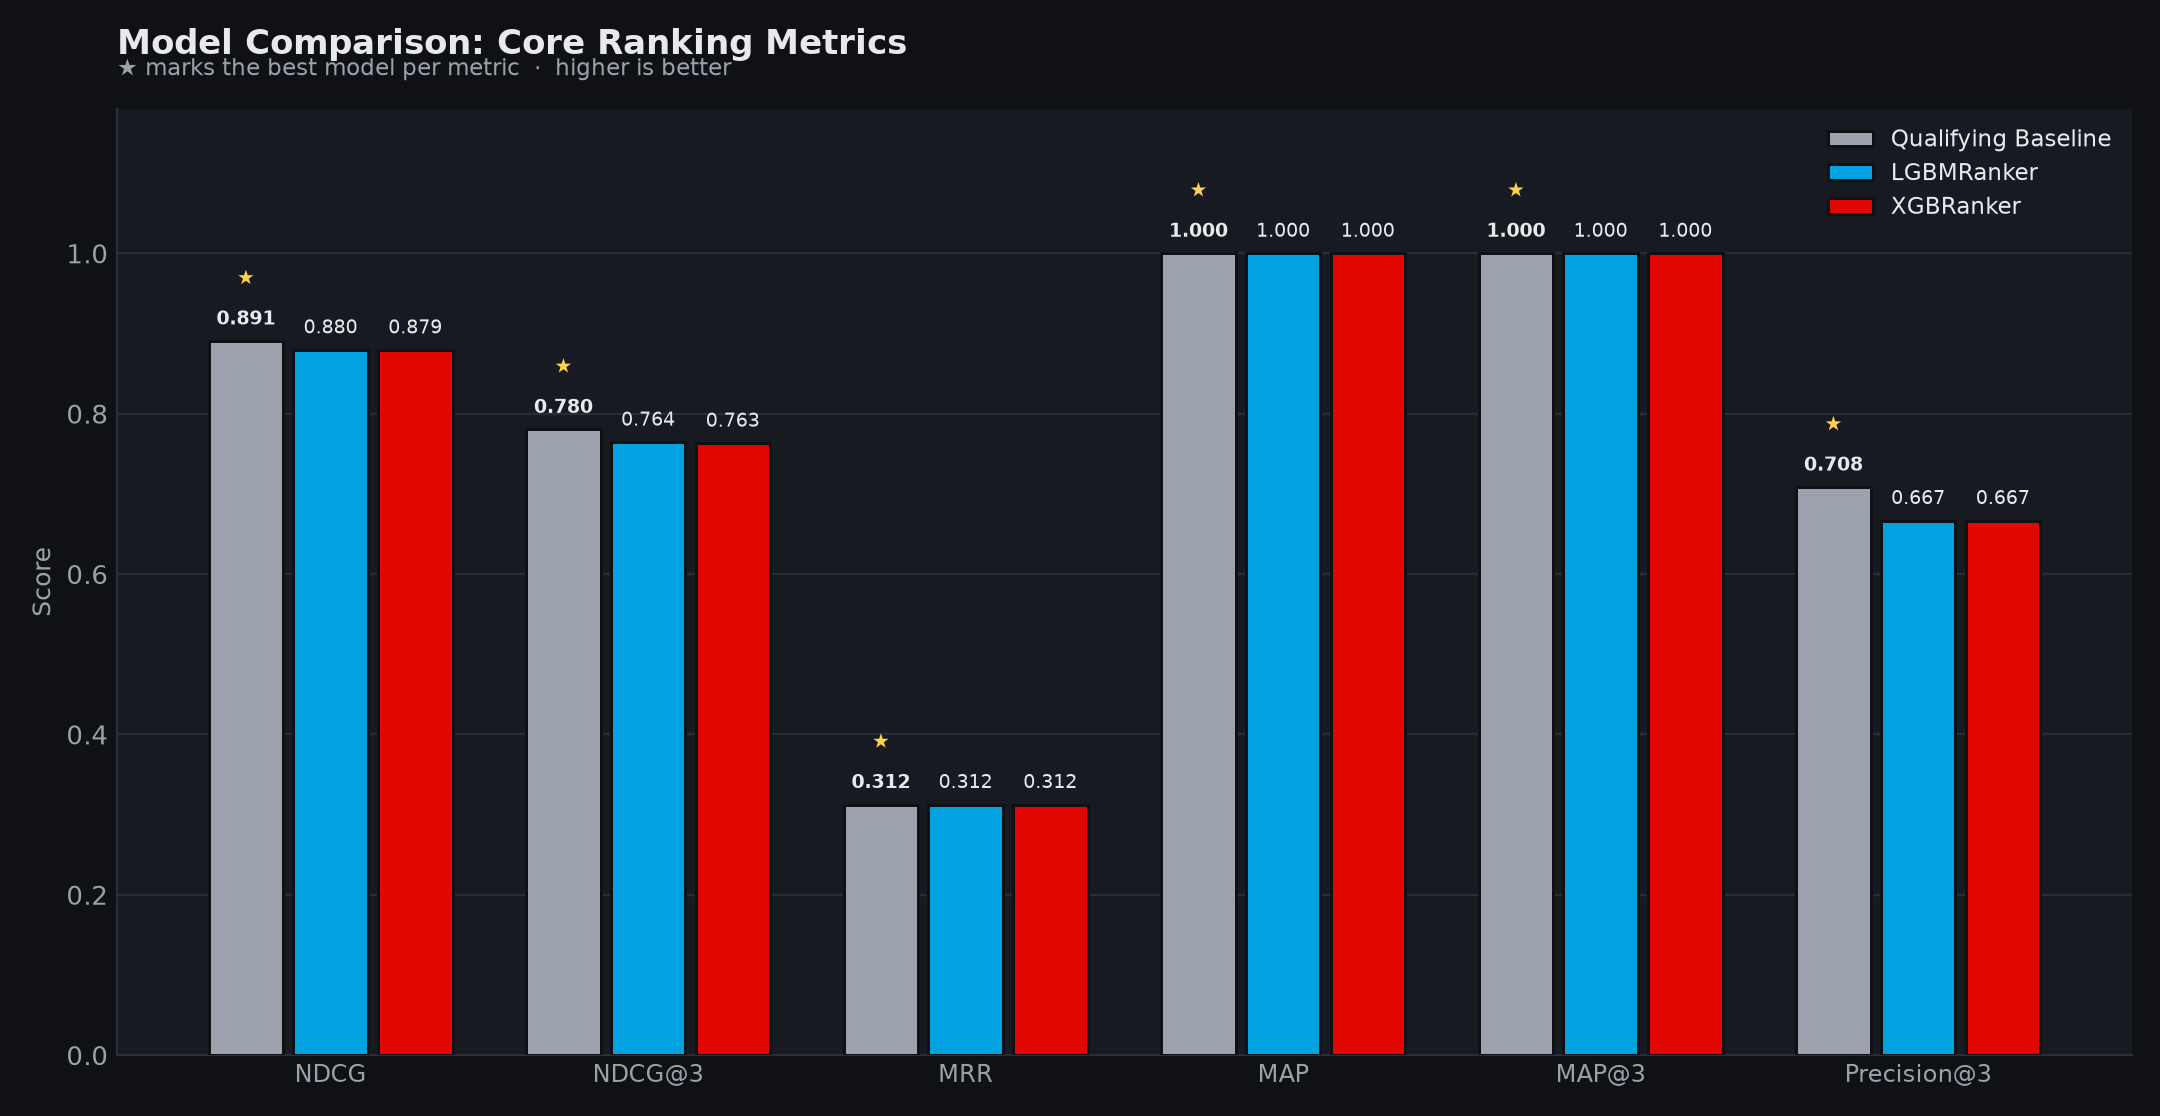
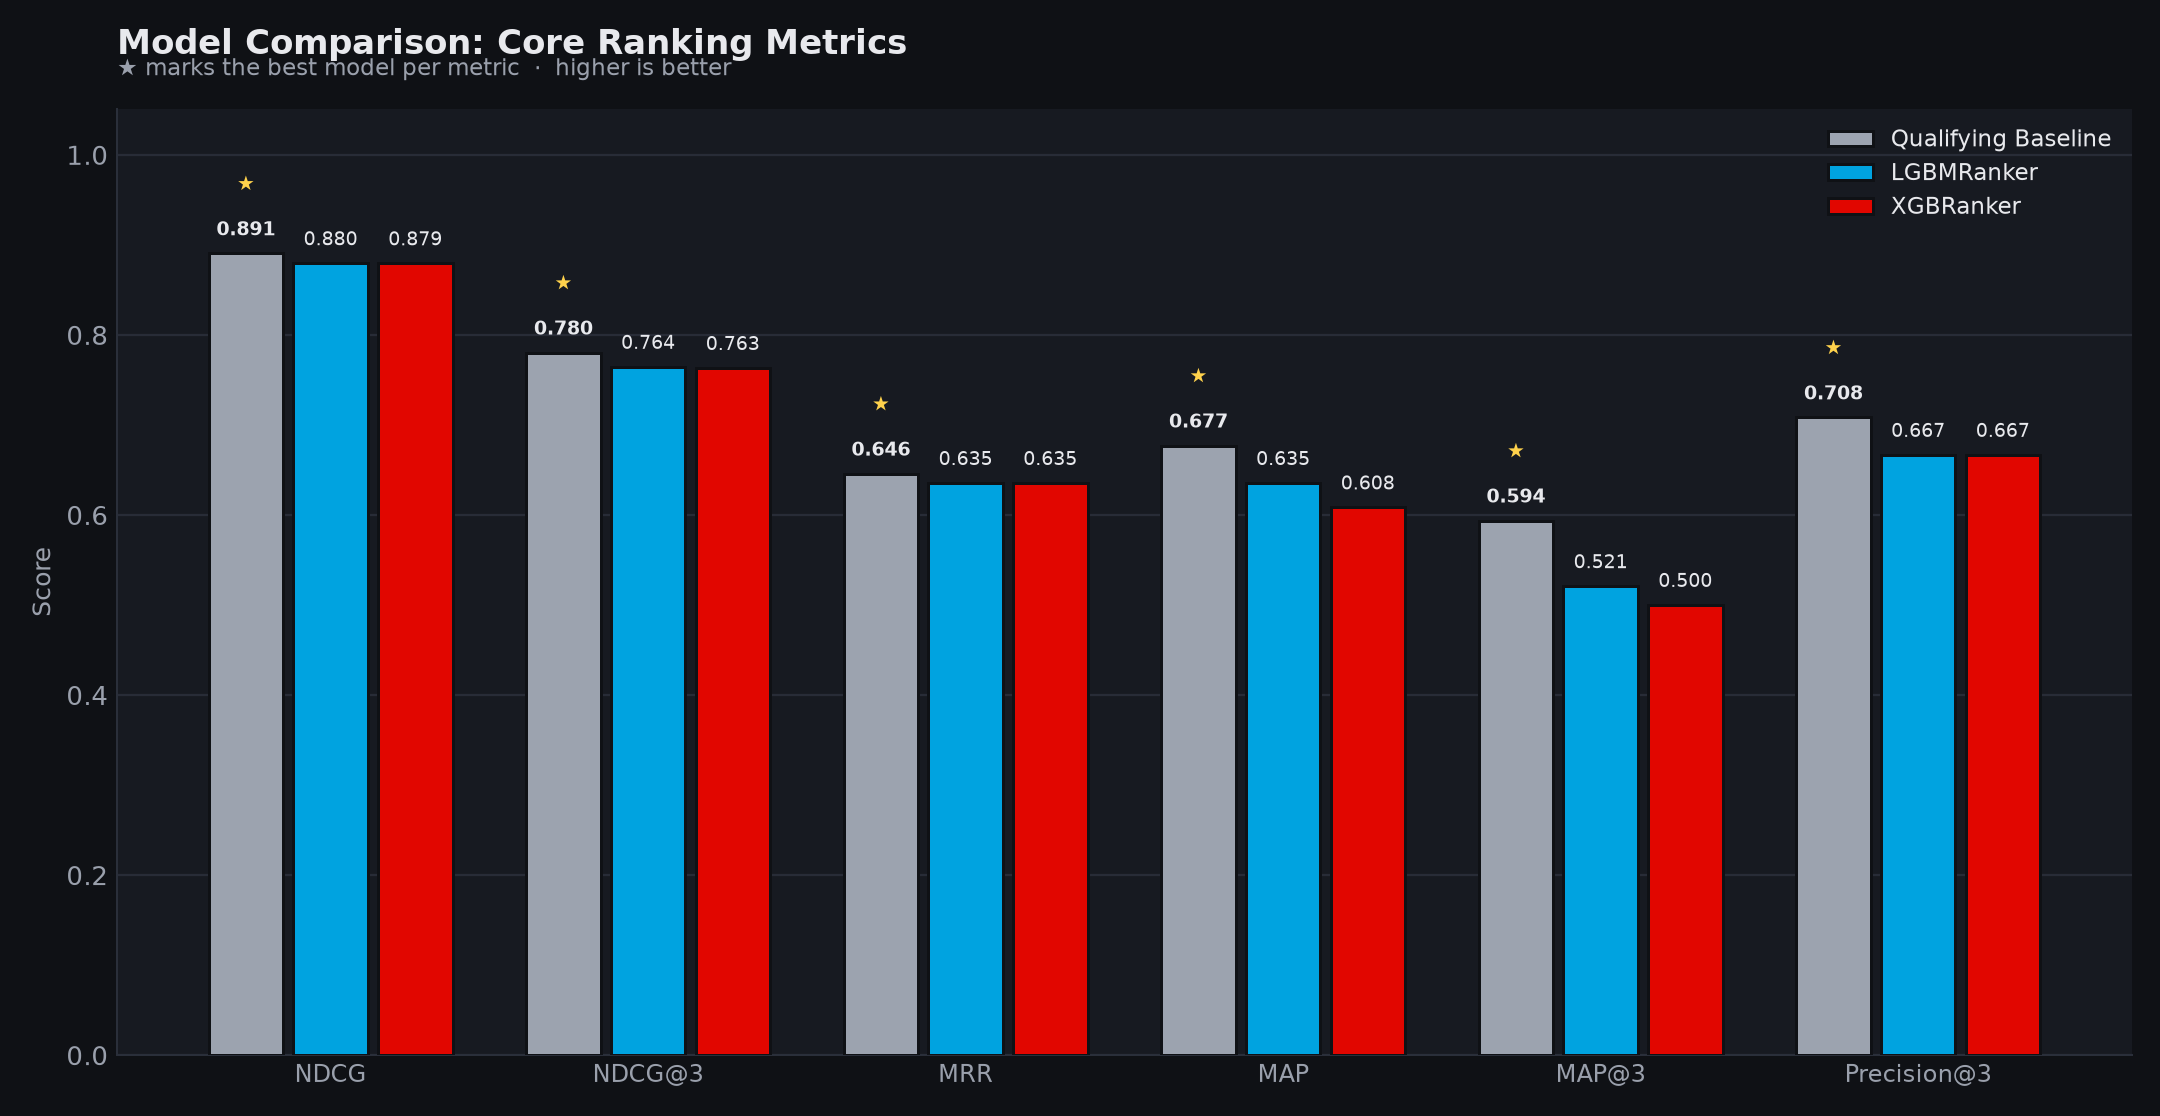
update visualization diagrams

diff --git a/src/evaluation/evaluate_model.py b/src/evaluation/evaluate_model.py
@@ -38,6 +38,7 @@ LGB_MODEL_PATH = "models/f1_lgb_ranker.pkl"
 METRICS_CSV_PATH = "outputs/reports/model_comparison_metrics.csv"
 PER_RACE_CSV_PATH = "outputs/reports/model_per_race_breakdown.csv"
 SUMMARY_JSON_PATH = "outputs/reports/model_comparison_summary.json"
+SANITY_JSON_PATH = "outputs/reports/metric_sanity_checks.json"
 
 FEATURE_COLUMNS = [
     "grid_position",
@@ -54,6 +55,7 @@ FEATURE_COLUMNS = [
 TARGET_COLUMN = "finish_position"
 RELEVANCE_COLUMN = "relevance_score"
 MODEL_TARGET_COLUMN = "model_relevance_score"
+TOP_RELEVANT_FINISH = 3
 
 
 def _ensure_dir(path: str) -> None:
@@ -135,7 +137,8 @@ def _grouped_mrr(df: pd.DataFrame, scores: np.ndarray) -> float:
 
     for _, race_df in scored.groupby("race_id", sort=False):
         predicted = race_df.sort_values("pred_score", ascending=False).reset_index(drop=True)
-        winner_index = predicted.index[predicted[RELEVANCE_COLUMN] == 14]
+        winner_driver_id = race_df.sort_values(TARGET_COLUMN, ascending=True)["driver_id"].iloc[0]
+        winner_index = predicted.index[predicted["driver_id"] == winner_driver_id]
         reciprocal_ranks.append(0.0 if len(winner_index) == 0 else 1.0 / float(winner_index[0] + 1))
 
     return float(np.mean(reciprocal_ranks))
@@ -154,14 +157,21 @@ def _precision_at_3(df: pd.DataFrame, scores: np.ndarray) -> float:
     return float(np.mean(precisions))
 
 
-def _map_score(df: pd.DataFrame, scores: np.ndarray, k: int | None = None) -> float:
+def _map_score(
+    df: pd.DataFrame,
+    scores: np.ndarray,
+    k: int | None = None,
+    relevant_finish_cutoff: int = TOP_RELEVANT_FINISH,
+) -> float:
     scored = df.copy()
     scored["pred_score"] = scores
     average_precisions: list[float] = []
 
     for _, race_df in scored.groupby("race_id", sort=False):
         ranked = race_df.sort_values("pred_score", ascending=False).reset_index(drop=True)
-        relevant_ids = set(race_df.sort_values(TARGET_COLUMN, ascending=True)["driver_id"].tolist())
+        relevant_ids = set(
+            race_df[race_df[TARGET_COLUMN] <= relevant_finish_cutoff]["driver_id"].tolist()
+        )
 
         if k is not None:
             ranked = ranked.head(k)
@@ -197,6 +207,67 @@ def _evaluate_scores(df: pd.DataFrame, scores: np.ndarray) -> dict[str, float]:
         "map": _map_score(df, scores),
         "map_at_3": _map_score(df, scores, k=3),
         "precision_at_3": _precision_at_3(df, scores),
+    }
+
+
+def _validate_metric_bounds(metric_map: dict[str, float], label: str) -> None:
+    for metric_name, value in metric_map.items():
+        if not np.isfinite(value):
+            raise ValueError(f"Sanity check failed: {label}.{metric_name} is not finite ({value}).")
+        if value < -1e-9 or value > 1.0 + 1e-9:
+            raise ValueError(
+                f"Sanity check failed: {label}.{metric_name} out of [0, 1] range ({value})."
+            )
+
+
+def _run_metric_sanity_checks(df: pd.DataFrame, baseline_scores: np.ndarray) -> dict[str, Any]:
+    rng = np.random.default_rng(42)
+
+    baseline_metrics = _evaluate_scores(df, baseline_scores)
+    oracle_scores = -df[TARGET_COLUMN].to_numpy(dtype=float)
+    oracle_metrics = _evaluate_scores(df, oracle_scores)
+
+    random_trials = 50
+    random_metric_list: list[dict[str, float]] = []
+    for _ in range(random_trials):
+        random_scores = rng.normal(size=len(df))
+        random_metric_list.append(_evaluate_scores(df, random_scores))
+
+    random_metrics_mean = {
+        name: float(np.mean([trial[name] for trial in random_metric_list]))
+        for name in baseline_metrics
+    }
+
+    _validate_metric_bounds(baseline_metrics, "baseline")
+    _validate_metric_bounds(oracle_metrics, "oracle")
+    _validate_metric_bounds(random_metrics_mean, "random_mean")
+
+    monotonic_metrics = ["global_ndcg", "ndcg_at_3", "mrr", "map", "map_at_3", "precision_at_3"]
+    failed_checks: list[str] = []
+
+    for metric_name in monotonic_metrics:
+        oracle_value = oracle_metrics[metric_name]
+        baseline_value = baseline_metrics[metric_name]
+        random_mean_value = random_metrics_mean[metric_name]
+
+        if oracle_value + 1e-9 < baseline_value:
+            failed_checks.append(
+                f"Oracle below baseline for {metric_name}: {oracle_value:.6f} < {baseline_value:.6f}"
+            )
+        if baseline_value + 1e-9 < random_mean_value:
+            failed_checks.append(
+                f"Baseline below random mean for {metric_name}: {baseline_value:.6f} < {random_mean_value:.6f}"
+            )
+
+    if failed_checks:
+        raise ValueError("Sanity check failed:\n" + "\n".join(failed_checks))
+
+    return {
+        "random_trials": random_trials,
+        "baseline_metrics": baseline_metrics,
+        "random_mean_metrics": random_metrics_mean,
+        "oracle_metrics": oracle_metrics,
+        "checks_passed": True,
     }
 
 
@@ -236,6 +307,8 @@ def evaluate_models(
     xgb_scores = xgb_model.predict(x_frame)
     lgb_scores = lgb_model.predict(x_frame)
     baseline_scores = _qualifying_baseline_scores(test_df)
+
+    sanity = _run_metric_sanity_checks(test_df, baseline_scores)
 
     metrics = {
         "xgb_ranker": _evaluate_scores(test_df, xgb_scores),
@@ -278,14 +351,20 @@ def evaluate_models(
     with open(SUMMARY_JSON_PATH, "w", encoding="utf-8") as file_obj:
         json.dump(summary, file_obj, indent=2)
 
+    _ensure_dir(SANITY_JSON_PATH)
+    with open(SANITY_JSON_PATH, "w", encoding="utf-8") as file_obj:
+        json.dump(sanity, file_obj, indent=2)
+
     generated_plots = generate_evaluation_plots(metrics_df, per_race_df, output_dir="outputs/reports")
     summary["artifacts"]["plots"] = generated_plots
+    summary["artifacts"]["sanity_json"] = SANITY_JSON_PATH
 
     print("Model comparison complete.")
     print(f"Evaluated season: {test_season}")
     print(f"Metrics table: {METRICS_CSV_PATH}")
     print(f"Per-race table: {PER_RACE_CSV_PATH}")
     print(f"Summary JSON: {SUMMARY_JSON_PATH}")
+    print(f"Sanity checks JSON: {SANITY_JSON_PATH}")
     for plot_path in generated_plots:
         print(f"Plot: {plot_path}")
 

diff --git a/src/models/train_ranker.py b/src/models/train_ranker.py
@@ -45,6 +45,7 @@ TARGET_COLUMN = "finish_position"
 RELEVANCE_COLUMN = "relevance_score"
 MODEL_TARGET_COLUMN = "model_relevance_score"
 WEIGHT_COLUMN = "temporal_sample_weight"
+TOP_RELEVANT_FINISH = 3
 
 MIN_CV_FOLDS = 1
 
@@ -198,7 +199,8 @@ def _compute_grouped_mrr(df: pd.DataFrame, pred_scores: np.ndarray) -> float:
 
     for _, race_df in scored.groupby("race_id", sort=False):
         predicted = race_df.sort_values("pred_score", ascending=False).reset_index(drop=True)
-        winner_index = predicted.index[predicted[RELEVANCE_COLUMN] == 14]
+        winner_driver_id = race_df.sort_values(TARGET_COLUMN, ascending=True)["driver_id"].iloc[0]
+        winner_index = predicted.index[predicted["driver_id"] == winner_driver_id]
         if len(winner_index) == 0:
             reciprocal_ranks.append(0.0)
         else:
@@ -222,7 +224,12 @@ def _compute_precision_at_k(df: pd.DataFrame, pred_scores: np.ndarray, k: int = 
     return float(np.mean(precisions))
 
 
-def _compute_map(df: pd.DataFrame, pred_scores: np.ndarray, k: int | None = None) -> float:
+def _compute_map(
+    df: pd.DataFrame,
+    pred_scores: np.ndarray,
+    k: int | None = None,
+    relevant_finish_cutoff: int = TOP_RELEVANT_FINISH,
+) -> float:
     scored = df.copy()
     scored["pred_score"] = pred_scores
     average_precisions: list[float] = []
@@ -230,7 +237,7 @@ def _compute_map(df: pd.DataFrame, pred_scores: np.ndarray, k: int | None = None
     for _, race_df in scored.groupby("race_id", sort=False):
         ranked = race_df.sort_values("pred_score", ascending=False).reset_index(drop=True)
         relevant_driver_ids = set(
-            race_df.sort_values(TARGET_COLUMN, ascending=True)["driver_id"].tolist()
+            race_df[race_df[TARGET_COLUMN] <= relevant_finish_cutoff]["driver_id"].tolist()
         )
 
         if k is not None:

diff --git a/src/visualization/visualize_results.py b/src/visualization/visualize_results.py
@@ -346,6 +346,15 @@ def plot_improvement_over_baseline(metrics_df: pd.DataFrame, output_path: str) -
     bar_width = group_width / max(n_models, 1)
     x = np.arange(n_metrics)
 
+    # Scale label offset (and axis padding) to the actual data range so labels
+    # stay attached to their bars regardless of whether deltas are ~0.2 or ~0.01.
+    all_values = delta_df[metric_cols].to_numpy(dtype=float)
+    data_min, data_max = float(all_values.min()), float(all_values.max())
+    data_range = max(data_max - data_min, 1e-6)
+    label_offset = max(data_range * 0.045, 0.0015)
+    pad = data_range * 0.18
+    ax.set_ylim(min(data_min - pad, -pad), max(data_max + pad, pad))
+
     for i, model in enumerate(delta_df.index):
         offsets = x - group_width / 2 + bar_width * i + bar_width / 2
         values = delta_df.loc[model, metric_cols].to_numpy(dtype=float)
@@ -357,7 +366,7 @@ def plot_improvement_over_baseline(metrics_df: pd.DataFrame, output_path: str) -
         )
         for rect, val in zip(bars, values):
             va = "bottom" if val >= 0 else "top"
-            offset = 0.004 if val >= 0 else -0.004
+            offset = label_offset if val >= 0 else -label_offset
             ax.text(
                 rect.get_x() + rect.get_width() / 2, val + offset,
                 f"{val:+.3f}", ha="center", va=va,
